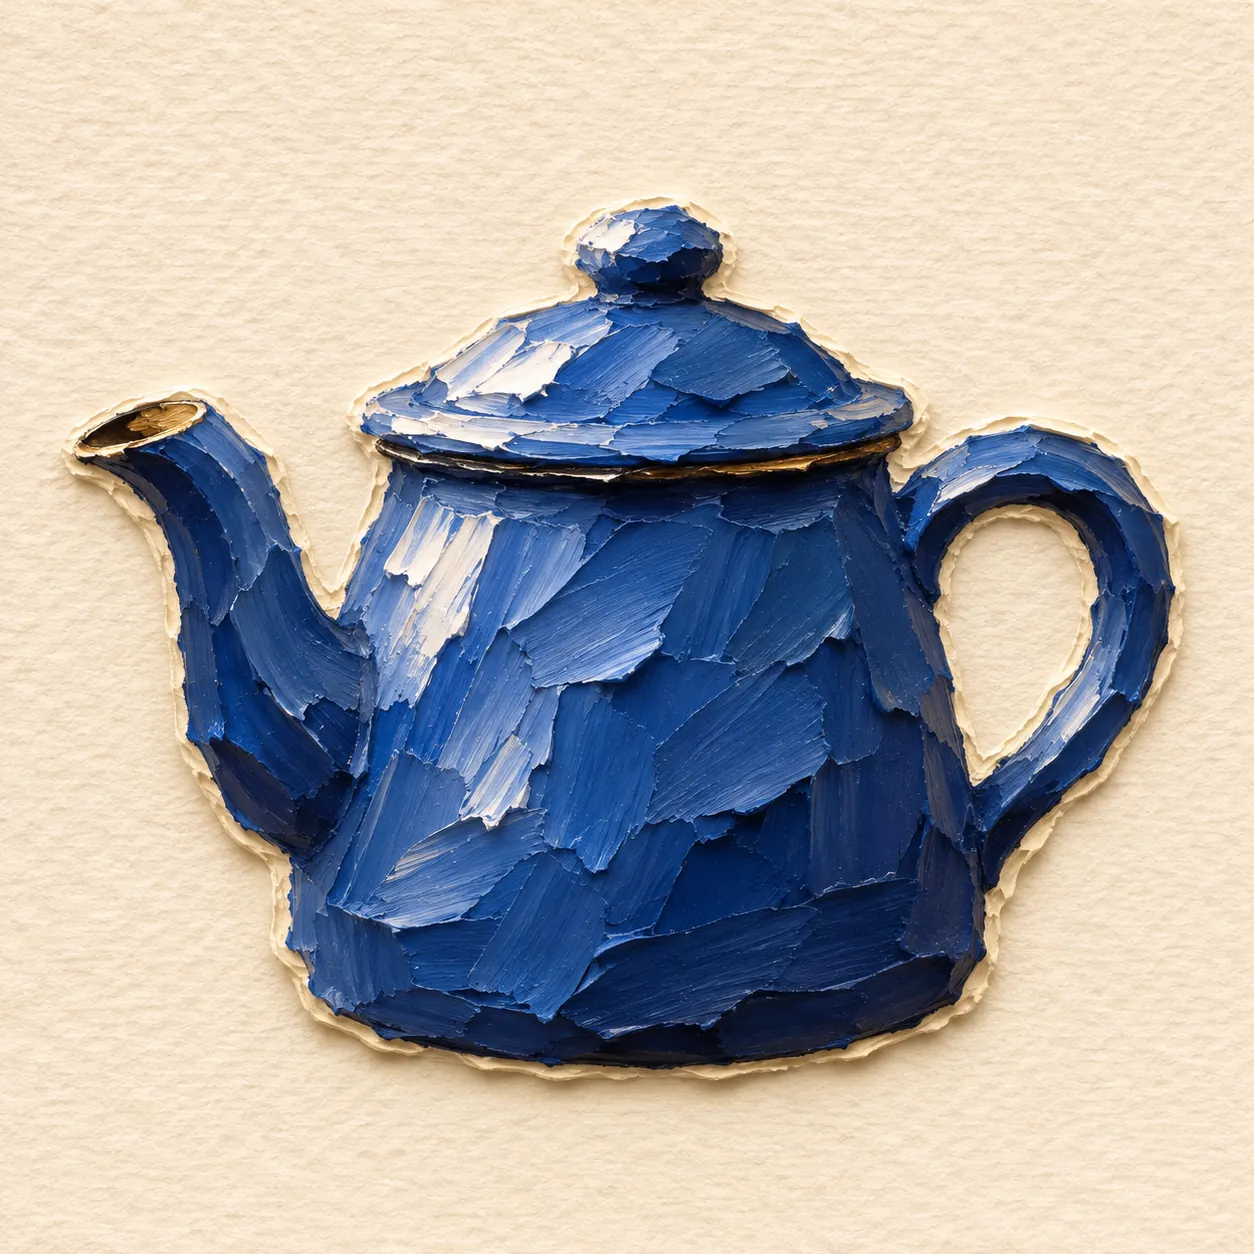
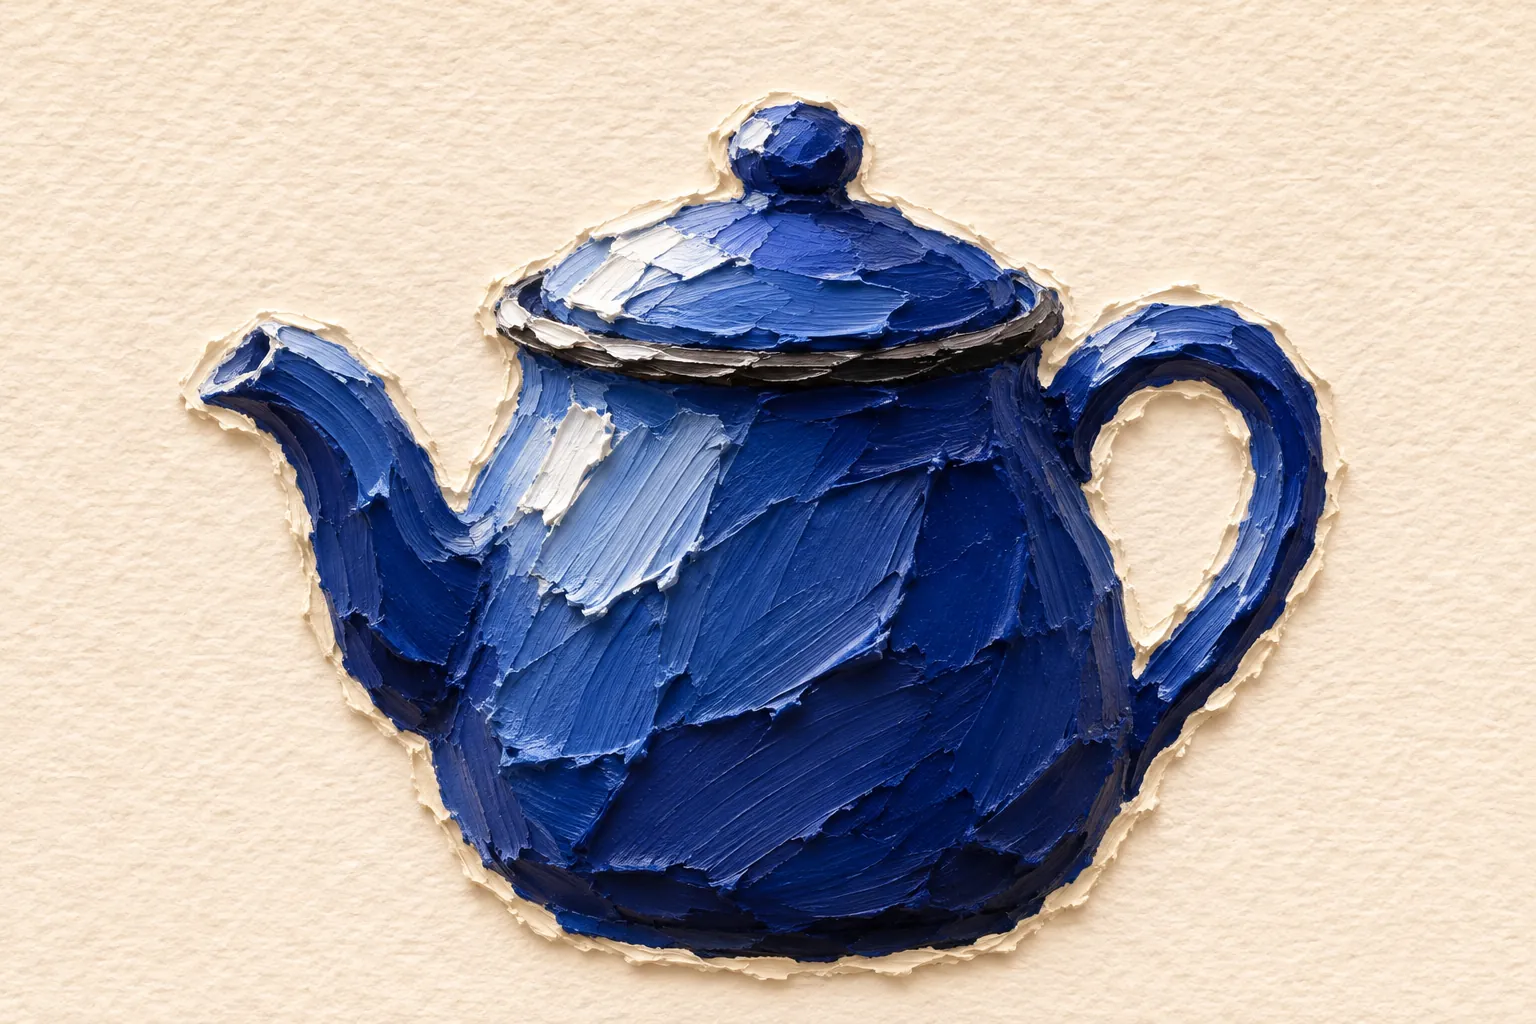
feat(image-style): add retro-game-pixel-art and keep source ratio
Keep the source aspect ratio in every style except fixed layouts, and
reconvert the impasto and pixel poster examples to match.

diff --git a/image-style/styles/retro-game-pixel-art/STYLE.md b/image-style/styles/retro-game-pixel-art/STYLE.md
@@ -1,0 +1,55 @@
+# Retro Game Pixel Art
+
+A photo fully reinterpreted as a 16-bit console game sprite or background, with blocky pixels, dithering, and a limited palette, with no border or text.
+
+## Prompt
+
+```text
+Convert the attached photo into an image in the style below.
+
+[Work order - important]
+Step 1: Fully reinterpret the forms like a 90s retro game (16-bit console) sprite or background, not a realistic photo. Remove all realistic photographic texture (light reflections, fine surface grain, gradient shading), and simplify into large color blocks and clear outlines.
+Step 2: Downsample the simplified forms angularly onto a real pixel grid. Use only block-unit pixels with distinct stair-stepping, with no smooth curves or anti-aliasing.
+Always work in the order of "simplify forms, then pixelate". Original detail must not show through as if a pixel filter were simply laid over the photo.
+
+[Overall composition]
+- The pixel art fills the entire canvas.
+- Keep pixel size consistent across the whole image (for example, based on a grid 64-96 pixels wide). Render at a unified resolution, with no areas where detail becomes partly denser or sparser.
+- Express shading with dot-level dithering patterns instead of smooth gradients.
+
+[Color]
+- Use a limited retro game palette of 16-32 colors. Mostly slightly saturated primary colors with the feel of SNES/Mega Drive era game sprites (deep blue, coral red, lime green, yellow, and so on), plus near-black outlines.
+- Noticeably limit the number of colors, expressing them in the abruptly stepped color levels typical of game palettes rather than natural, photo-like color transitions.
+
+[Form simplification by subject]
+- Food: don't draw each ingredient's realistic texture; simplify into chunks like an in-game item icon (for example, a soup dish as a bowl plus 2-3 color blocks of contents).
+- Products: keep a brand logo or signature form recognizable, with flat pixel-block surfaces.
+- People/animals: simplify to 2-3 head-tall SD proportions like an 8-16-bit game character sprite, with facial features expressed in only minimal pixel dots.
+- Landscapes/buildings: compose sky, mountains, and buildings as overlapping pixel layers, like a retro game background tilemap.
+
+[Border and text]
+No border or frame. Don't add text, logos, keyword lists, or game UI elements such as health bars, coin counters, or star icons.
+
+[Avoid]
+- The photo's original forms, lighting, and detail showing through beneath the pixel grid
+- Pixels with smooth gradients or remaining anti-aliasing
+- So many colors that it looks close to a real photo
+- Pixel sizes that vary by area, making the resolution inconsistent
+
+[Ratio]
+Same as the attached image.
+```
+
+## Observed in references
+
+The user's original reference images aren't stored. They showed these traits, which the prompt doesn't state. Add the ones you want to the image prompt. The references also have a cream mount, titles, and game UI text, which this style removes by the user's choice.
+
+- **Proportions:** people and subjects aren't always SD. One person has natural anime-like proportions with a detailed face.
+- **Scenes:** settings are rich and full of small elements, such as a classroom with cherry blossoms outside, or a beach with a bridge and tiny figures.
+- **Outlines:** subjects have near-black outlines, while distant scenery often has none.
+- **Dithering:** checkerboard dithering shows most in clouds, skies, grass, and fur.
+- **Color:** one main hue often dominates the image, such as lime green or deep blue.
+
+## Examples
+
+- [bicycle.webp](examples/bicycle.webp): conversion of a generated photo of a red bicycle against a wall, made with `gpt-image` from the prompt above. It has no border or text, keeps the source's 3:2 ratio, and shows clear stair-stepping, checkerboard dithering, and near-black outlines. Pixel size varies a little, and some pixel edges look slightly soft rather than perfectly crisp.

diff --git a/image-style/styles/cosmic-pixel-poster/STYLE.md b/image-style/styles/cosmic-pixel-poster/STYLE.md
@@ -1,6 +1,6 @@
 # Cosmic Pixel Poster
 
-An image reinterpreted as a vertical retro event flyer in low-resolution LED dot-matrix pixels, with a large golden title on a dark cosmic background.
+An image reinterpreted as a retro event flyer in low-resolution LED dot-matrix pixels, with a large golden title on a dark cosmic background.
 
 ## Prompt
 
@@ -19,7 +19,7 @@ Place the main title text at the top:
 The title should be large, bold, blocky, and pixelated, using a retro dot-matrix / bitmap font style. The title should feel like it was drawn with small square pixels or LED dots, slightly imperfect and nostalgic.
 
 [Overall Style]
-A vertical retro event poster with a black or very dark charcoal background, filled with colorful tiny pixel stars, confetti dots, geometric shapes, small squares, rings, crosses, diamonds, moons, flowers, planets, UFO-like symbols, cactus-like silhouettes, and playful space-age icons.
+A retro event poster with a black or very dark charcoal background, filled with colorful tiny pixel stars, confetti dots, geometric shapes, small squares, rings, crosses, diamonds, moons, flowers, planets, UFO-like symbols, cactus-like silhouettes, and playful space-age icons.
 
 The poster should feel like a mix of:
 - 1980s / 1990s underground electronic music flyer
@@ -29,7 +29,7 @@ The poster should feel like a mix of:
 - printed zine poster with slightly rough ink texture
 
 [Composition]
-Vertical poster layout.
+Poster layout.
 Large title area at the top, occupying about 25–35% of the poster height.
 Below the title, arrange several small pixel-art icon sections inspired by the uploaded image.
 Use the uploaded image's main subject as the central inspiration, but simplify it into pixel symbols and decorative motifs.
@@ -82,7 +82,7 @@ Add subtle paper grain, screen-printed ink texture, slight blur from old print r
 The poster should feel like a physical printed flyer photographed in a book or zine archive.
 
 [Technical Specs]
-Vertical poster.
+Same aspect ratio as the attached image.
 High detail pixel-art texture.
 Low-resolution aesthetic, but high-quality final image.
 Sharp enough to read the title, but with intentionally rough pixel edges.
@@ -120,10 +120,9 @@ The user's original reference images aren't stored. They showed these traits, wh
 - **Subject:** the main subject stays large, central, and recognizable as one pixel illustration, even though the prompt asks for symbolic icons. Its pose and key details carry over from the source.
 - **Scene:** the source setting turns cosmic, such as a daytime window becoming a starry night city, and objects gain stars or glitter.
 - **Title:** a short two-line title in all caps pairs a cosmic word with the subject.
-- **Ratio:** posters are 3:4.
 - **Layout:** repeated motifs from the source fill the margins, sometimes with thin dotted frames and small inset panels.
 - **Source text:** logos and text in the source are dropped.
 
 ## Examples
 
-- [bicycle.webp](examples/bicycle.webp): conversion of a generated photo of a red bicycle against a wall, with the title "COSMIC BIKE", made with `gpt-image` from the prompt above. It matches the references' golden title, large central subject, and cosmic motifs. It came out 2:3 instead of 3:4, so request the ratio explicitly. Its worn poster edges and creases are heavier than the references, and its pixels look more like cross-stitch.
+- [bicycle.webp](examples/bicycle.webp): conversion of a generated photo of a red bicycle against a wall, with the title "COSMIC BIKE", made with `gpt-image` from the prompt above. It matches the references' golden title, large central subject, and cosmic motifs. It keeps the source's 3:2 ratio, and its title fits on one line. Its worn poster edges and creases are heavier than the references, and its pixels look more like cross-stitch.

diff --git a/image-style/SKILL.md b/image-style/SKILL.md
@@ -18,6 +18,7 @@ A library of concrete styles for converting existing images. Each style keeps a 
 | [photo-fragment-collage](styles/photo-fragment-collage/STYLE.md) | One photo split into six crops in an aligned grid on pale paper | Turning a photo into a calm magazine-style collage poster |
 | [colored-pencil-sketch](styles/colored-pencil-sketch/STYLE.md) | Loose layered colored pencil strokes that scatter into white paper | Turning photos into relaxed travel-sketchbook drawings |
 | [gouache-marker-illustration](styles/gouache-marker-illustration/STYLE.md) | Cute flat gouache and marker illustration with thick wobbly outlines on cream | Turning photos into simple, friendly illustrations |
+| [retro-game-pixel-art](styles/retro-game-pixel-art/STYLE.md) | 16-bit game sprite or background with blocky pixels, dithering, and a limited palette | Turning photos into nostalgic game-like pixel art |
 
 ## Convert an image
 
@@ -28,13 +29,15 @@ A library of concrete styles for converting existing images. Each style keeps a 
 5. Convert with the image tool the user asked for or has available, using the source image as the edit target. With `gpt-image`, use `--mode edit --edit-target <source>`.
 6. Compare the result with the source, the observed traits, and the example. If it drifts, name the difference and tighten the prompt for that trait.
 
+Keep the source image's aspect ratio in the output. Only styles built on their own fixed layout, such as `photo-fragment-collage`, are exempt.
+
 When the user's request conflicts with a saved style, follow the user for this image and leave the saved style unchanged.
 
 ## Add a style
 
 1. Pick a short, descriptive kebab-case name based on the look. Don't name it after a subject that only appears in the references.
 2. Create `styles/<name>/STYLE.md` from the structure below. Don't save the user's reference images in this skill.
-3. Write the prompt in English, keeping every rule the user gave. Don't add rules to the prompt block on your own. If a reference shows a before/after pair, ask which part the user wants as output.
+3. Write the prompt in English, keeping every rule the user gave. Don't add rules to the prompt block on your own, except that the prompt must keep the source's aspect ratio unless the style is a fixed layout. If a reference shows a before/after pair, ask which part the user wants as output.
 4. Look at the references, and record traits the prompt doesn't state under "Observed in references".
 5. Generate a neutral source photo with no real names or logos, and convert it with the prompt using `gpt-image`. Save only the converted image in `styles/<name>/examples/` as WebP at quality 80 (for example, `cwebp -q 80 -m 6 in.png -o out.webp`), and note any gap from the references.
 6. Add a row to the table above.

diff --git a/image-style/styles/palette-knife-impasto/STYLE.md b/image-style/styles/palette-knife-impasto/STYLE.md
@@ -5,7 +5,7 @@ A subject converted into a thick palette-knife oil painting that stands out in r
 ## Prompt
 
 ```text
-Convert the subject in the attached photo into a square miniature painting in palette knife impasto oil style.
+Convert the subject in the attached photo into a miniature painting in palette knife impasto oil style.
 
 [Style - emphasize dimensionality]
 - Impasto technique with paint boldly built up with a palette knife, thick enough to look like it actually protrudes 3-5 mm from the surface
@@ -23,7 +23,7 @@ Convert the subject in the attached photo into a square miniature painting in pa
 - No text, handwriting, captions, or signatures anywhere in the image
 
 [Ratio/composition]
-- Output ratio fixed at 1:1
+- Output ratio same as the attached image
 - Place the subject at the center of the frame with generous margins, simply the single subject with no props
 ```
 
@@ -40,4 +40,4 @@ The user's original reference images aren't stored. They showed these traits, wh
 
 ## Examples
 
-- [teapot.webp](examples/teapot.webp): conversion of a generated photo of a blue enamel teapot on a kitchen table, made with `gpt-image` from the prompt above plus the surface, silhouette, ground, and scale traits and a request to keep source colors true. Without those additions, an earlier attempt had smoother strokes, brighter blue, and peach paper. This result matches the references better, but the teapot still spans about 85–90% of the width despite a 60–70% request, and its cream halo is more even and sticker-like than the references.
+- [teapot.webp](examples/teapot.webp): conversion of a generated photo of a blue enamel teapot on a kitchen table, made with `gpt-image` from the prompt above plus the surface, silhouette, ground, and scale traits and a request to keep source colors true. Without those additions, an earlier attempt had smoother strokes, brighter blue, and peach paper. This result matches the references better and keeps the source's 3:2 ratio. The teapot still spans about 75% of the width despite a 60–70% request, its height nearly fills the frame, and its cream halo reads more like a cut line than the references.

diff --git a/image-style/styles/geometric-symbol-print/STYLE.md b/image-style/styles/geometric-symbol-print/STYLE.md
@@ -5,7 +5,7 @@ A subject distilled into one abstract geometric symbol, printed in a few flat in
 ## Prompt
 
 ```text
-Turn each uploaded photo into its own standalone 3:2 landscape design print, without mixing different photos. The output is only the abstract print. Don't include the original photo or a split layout. If the input is a screenshot of a finished piece, extract only the work and remove interface elements, watermarks, and page text.
+Turn each uploaded photo into its own standalone design print with the same aspect ratio as the photo, without mixing different photos. The output is only the abstract print. Don't include the original photo or a split layout. If the input is a screenshot of a finished piece, extract only the work and remove interface elements, watermarks, and page text.
 
 Distill a self-contained abstract visual symbol from the photo. First identify the two or three most recognizable traits: silhouette, structure, movement, repeating rhythm, or narrative relationship. Then compress them using a few geometric modules, lines, cuts, overlaps, and negative space. Capture the subject's character and relationships without reproducing the whole object. Don't draw a complete landscape or illustration, and don't force different subjects into the same kind of shape.
 

diff --git a/image-style/styles/colored-pencil-sketch/STYLE.md b/image-style/styles/colored-pencil-sketch/STYLE.md
@@ -47,7 +47,6 @@ The user's original reference images aren't stored. They showed these traits, wh
 - **Background:** diagonal zigzag scribbles in one or two colors, often blue sky and green, form a rough vignette around the subject.
 - **Dark subjects:** black fur or dark areas build from dense layered lines with small highlights left bare.
 - **Scenes:** a detailed scene can fill most of the page, with its strokes thinning out only near the paper's edges.
-- **Ratio:** all references are 3:4.
 
 ## Examples
 

diff --git a/image-style/styles/gouache-marker-illustration/STYLE.md b/image-style/styles/gouache-marker-illustration/STYLE.md
@@ -37,7 +37,6 @@ The user's original reference images aren't stored. They showed these traits, wh
 - **Texture:** color areas look like dry-brush gouache or crayon with visible paper grain, not smooth fills.
 - **Detail:** complex subjects, such as a tower or a food platter, keep many small details, while plush toys and animals stay simple.
 - **Props:** props are small, self-contained sticker-like drawings, sometimes with a soft cream shadow.
-- **Ratio:** all references are 3:4.
 
 ## Examples
 

diff --git a/image-style/styles/crayon-kid-drawing/STYLE.md b/image-style/styles/crayon-kid-drawing/STYLE.md
@@ -36,6 +36,9 @@ Convert the attached photo into a very clumsy drawing that looks like a kinderga
 
 [Overall feel]
 It should feel like a real young child drew it in a hurry. Low polish is fine. The cruder and sloppier, the better.
+
+[Ratio]
+Same as the attached image.
 ```
 
 ## Observed in references
